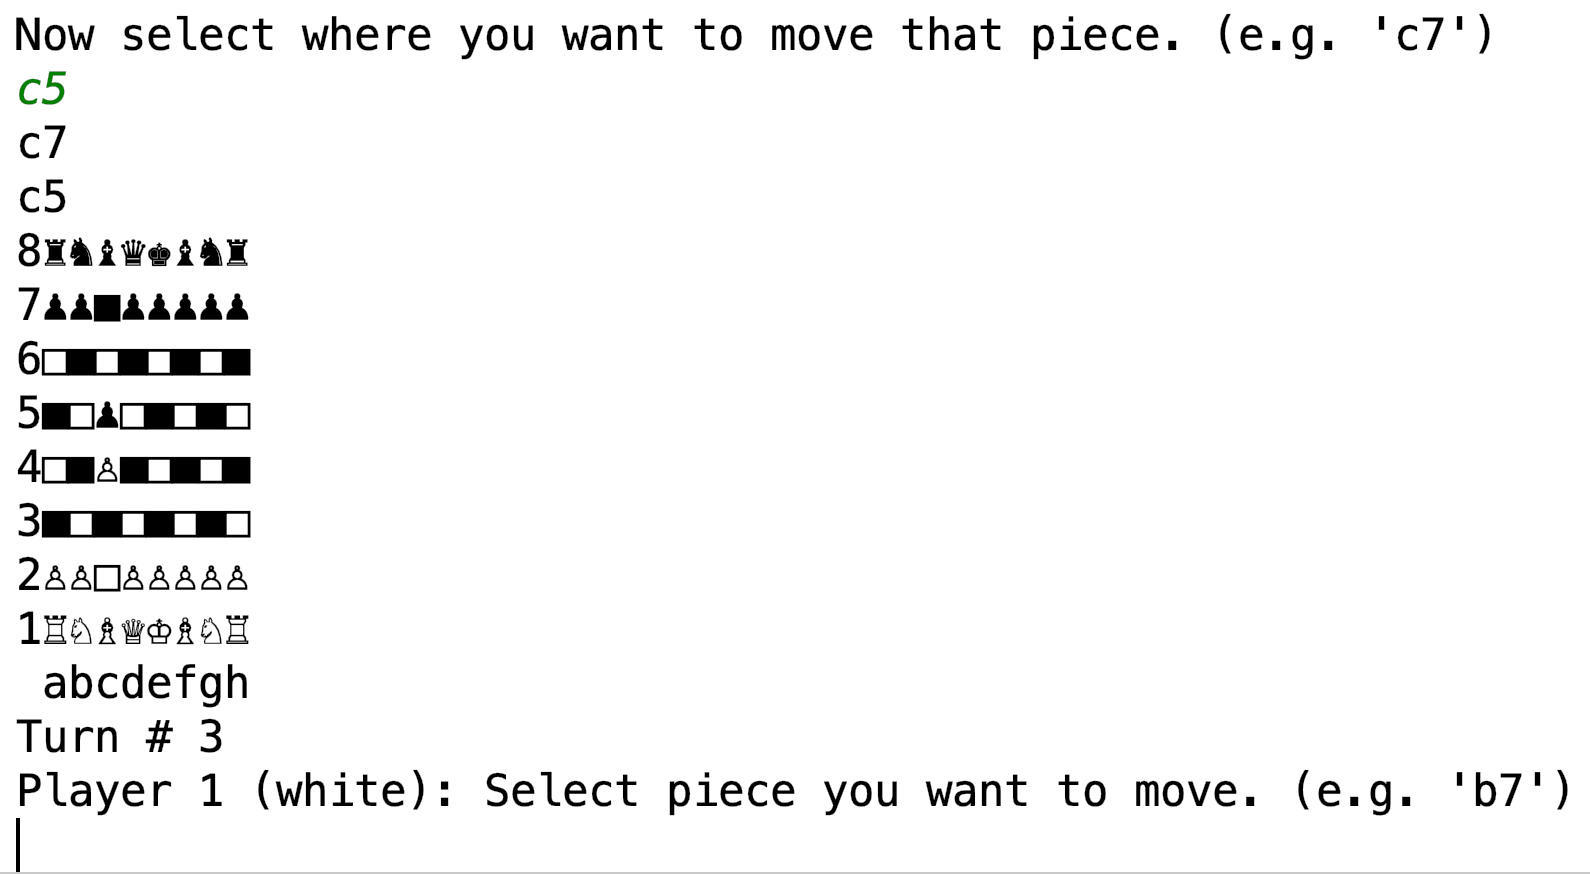
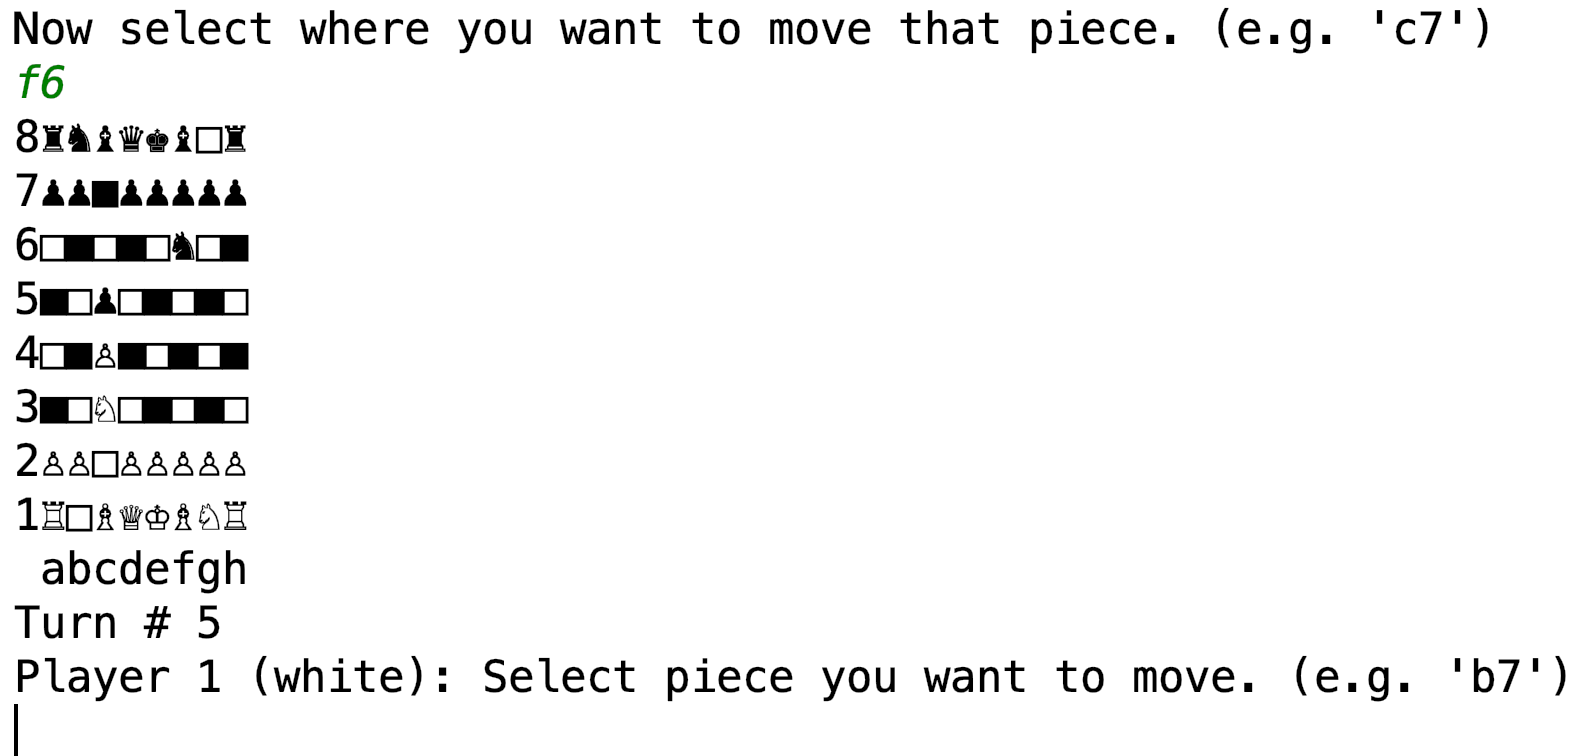
Remove extraneous print statements

Changed region(s): [[0.0, 0.0, 0.9924, 0.9431], [0.8684, 0.0, 0.9614, 0.0608], [0.0, 0.9735, 0.031, 1.0]]

diff --git a/src/com/javagames/chess/PlayChess.java b/src/com/javagames/chess/PlayChess.java
@@ -24,8 +24,6 @@ public class PlayChess {
                 from = in.nextLine();
                 System.out.println("Now select where you want to move that piece. (e.g. 'c7')");
                 to = in.nextLine();
-                System.out.println(from);
-                System.out.println(to);
                 ChessBoard.updateBoard(from, to);
 
 
